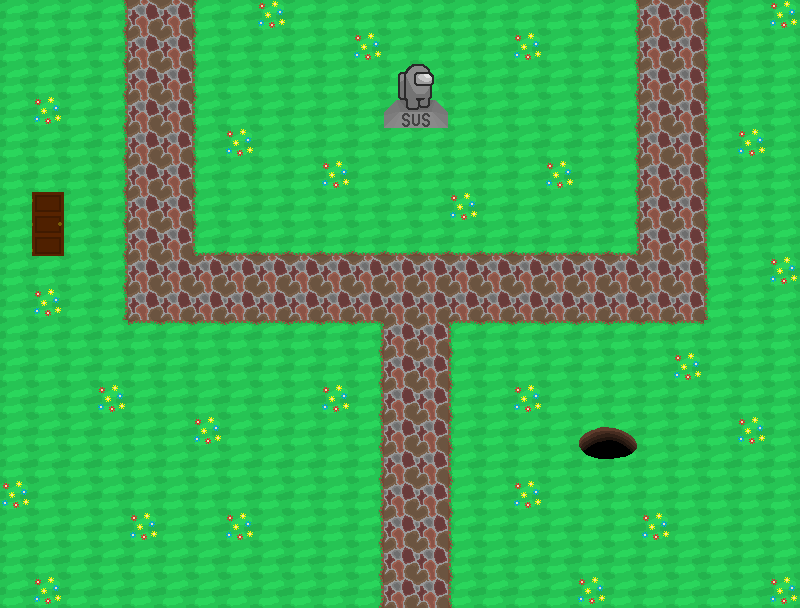
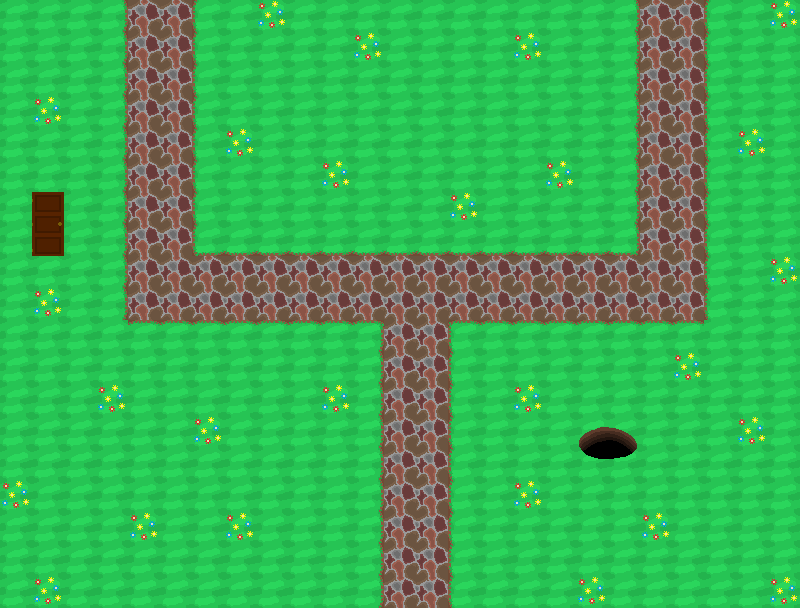
basicly finnished it i geuss
now with more dislectia

Changed region(s): [[0.4688, 0.0938, 0.5625, 0.2188]]

diff --git a/js/main.js b/js/main.js
@@ -46,6 +46,15 @@ const yahoo = document.getElementById("yahoo");
 const explosion = document.getElementById("explosion");
 const explosionAudio = document.getElementById("explosionAudio")
 
+//statue
+const wholeAmongus = document.getElementById("wholeAmongus")
+const halfAmongus = document.getElementById("halfAmongus")
+
+if (gameState.keyPickedUp == true){
+    halfAmongus.style.opacity = 1;
+    wholeAmongus.style.opacity = 0
+}
+
 gameWindow.onclick = function (e) {
     var rect = gameWindow.getBoundingClientRect();
     var x = e.clientX - rect.left;
@@ -60,18 +69,6 @@ gameWindow.onclick = function (e) {
     }
 
     switch (e.target.id) {
-        case "key":
-            if (gameState.keyPickedUp == false) {
-                changeInventory("Rusty key", "add");
-                showMessage(heroSpeech, "Oh wow, i found a key", heroAudio);
-                gameState.keyPickedUp = true;
-                saveGameState(gameState);
-            }
-            else {
-                showMessage(heroSpeech, "Oh wow, i found nothing", heroAudio);
-            }
-            
-            break;
         case "well":
             if (gameState.luigiPickedUp == false){
                 showLuigi();
@@ -79,7 +76,7 @@ gameWindow.onclick = function (e) {
                 setTimeout(showMessage, 3000, heroSpeech, "Why hello Luigi. Why are you in a pit? hold on i'll put you in my pocket.", heroAudio)
                 setTimeout(showMessage, 6000 , counterSpeech, "Here we go!", hereWeGo);
                 setTimeout(showLuigi, 6000);
-                changeInventory("Luigi", "add");
+                setTimeout(changeInventory, 9000, "Luigi", "add");
                 gameState.luigiPickedUp = true;
                 saveGameState(gameState);
             }
@@ -89,17 +86,27 @@ gameWindow.onclick = function (e) {
             
             break;
         case "doorWizardHut":
-            if (checkItem("Rusty key")) {
-                showMessage(heroSpeech, "I opened the door", heroAudio);
+            if (gameState.keyPickedUp == true) {
+                showMessage(heroSpeech, "I opened the door... there is nothing on the other side", heroAudio);
+                setTimeout(showMessage, 3000, heroSpeech, "welp, don't know what i expected.", heroAudio)
             } else {
                 showMessage(heroSpeech, "A mystery door, standing in the middle of nowhere... welp i know what i'm doing with my time.", heroAudio);
             }
             break;
         case "statue":
-            if (checkItem("Luigi")){
+            if (gameState.luigiPickedUp == true && gameState.keyPickedUp == false){
                 showMessage(heroSpeech, "Luigi what are you doing!", heroAudio);
                 setTimeout(showMessage, 3000, counterSpeech, "YAAAAHOOOOOOO!!", yahoo);
                 setTimeout(showLuigi, 3000);
+                setTimeout(showExplosion,4500);
+                setTimeout(showMessage,6200,heroSpeech , "WTF just happened.", heroAudio);
+                setTimeout(showMessage, 10000, heroSpeech, "Hold on is that a key in the rubble?", heroAudio);
+                setTimeout(changeInventory, 10000, "rusty key", "add");
+                gameState.keyPickedUp = true;
+                saveGameState(gameState);
+            }
+            else if (gameState.keyPickedUp == true){
+                showMessage(heroSpeech, "*you inspect the statue... and yes there is in fact no longer a statue standing here.*", heroAudio);
             }
             else{
                 showMessage(heroSpeech, "*you inspect the statue... and yes it is in fact a statue.*", heroAudio);
@@ -165,7 +172,21 @@ function hideLuigi(){
     luigiHead.style.opacity = 0;
 }
 
-1700
+function showExplosion(){
+    explosion.style.opacity = 1;
+    explosionAudio.play();
+    halfAmongus.style.opacity = 1;
+    setTimeout(hideAmongus, 1700)
+    setTimeout(hideExplosion, 1700)
+}
+
+function hideExplosion() {
+    explosion.style.opacity = 0;
+}
+
+function hideAmongus(){
+    wholeAmongus.style.opacity = 0;
+}
 
 /**
  * 
@@ -195,7 +216,7 @@ function saveGameState(gameState){
 
 updateInventory(gameState.inventory, inventoryList);
 
-function resety(){//so you better not forgetti that i make the best spagetti, just as long as i don't forgetti the tometti and if you resetti, i will you regretti. this might be an indi game but it's not five nights at fretti.
+function resety(){//so you better not forgetti that i make the best spagetti.well, just as long as i don't forgetti the tometti. i will you regretti if you try to resetti. this might be an indi game but it's not five nights at fretti's.
     gameState.inventory = [];
     gameState.keyPickedUp = false;
     gameState.luigiPickedUp = false;

diff --git a/index.html b/index.html
@@ -37,7 +37,6 @@
             </div>
         </div>
         <!--Foreground elements-->
-        <div id="key" class="foreground"></div>
         <div id="well" class="foreground"></div>
         <div id="doorWizardHut" class="foreground"></div>
         <div id="statue" class="foreground"></div>
@@ -51,6 +50,12 @@
         <!--Background elements-->
         <div id="tileMap" class="background">
             <img src="img/tilemap.png" alt="tilemap" draggable="false">
+        </div>
+        <div id="halfAmongus" class="background">
+            <img src="img/AmongusNoMore.png" alt="amongus statue plack" draggable="false">
+        </div>
+        <div id="wholeAmongus" class="background">
+            <img src="img/Amongus.png" alt="amongus statue" draggable="false">
         </div>
         <div id="explosion" class="background">
             <img src="img/explosion.gif" alt="explosion" draggable="false">

diff --git a/css/style.css b/css/style.css
@@ -85,26 +85,6 @@ body {
     transition: all 1s ease-in-out;
 }
 
-#squareTree {
-    width: 64px;
-    height: 64px;
-    background-color: #00ff00;
-    left: 400px;
-    top: 150px;
-    opacity: 1;
-    transition: all 1s ease-in-out;
-
-}
-
-#key {
-    width: 32px;
-    height: 32px;
-    left: 320px;
-    top: 384px;
-    opacity: 1;
-    transition: all 1s ease-in-out;
-}
-
 #well {
     width: 64px;
     height: 54px;
@@ -135,12 +115,19 @@ body {
 
 }
 
-#tileMap {
-
-}
-
 #explosion {
     top:46px;
+    left: 384px;
+    opacity: 0;
+}
+
+#wholeAmongus{
+    top: 64px;
+    left: 384px;
+}
+
+#halfAmongus{
+    top: 64px;
     left: 384px;
     opacity: 0;
 }
